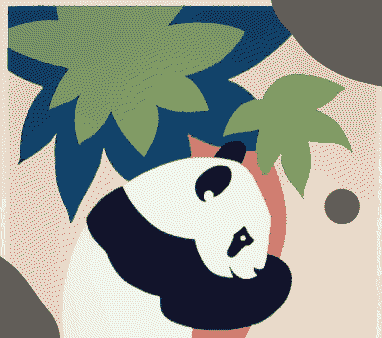
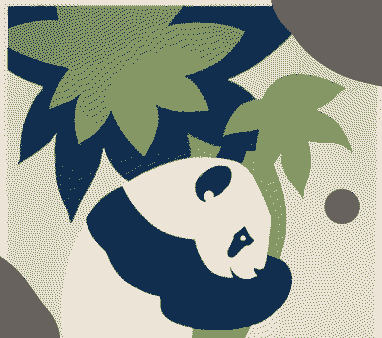
fixing color quantization

diff --git a/src/main.rs b/src/main.rs
@@ -6,24 +6,27 @@ use exoquant::{Color, convert_to_indexed, ditherer, optimizer};
 use image::{DynamicImage, GenericImageView, GrayImage, ImageBuffer, Luma, Pixel, Rgb, RgbImage};
 use imageproc::edges::canny;
 use imageproc::filter::gaussian_blur_f32;
+use palette::Srgb;
 use svg::Document;
 use svg::node::element::{Path as SvgPath, Rectangle};
 use svg::node::element::path::Data;
 
 
 fn main() {
+    let num_colors = 4;
+    let gaussian_blur_dev = 1.5;
+
     println!("Read the input bitmap image.");
     let color_image = image::open("input.png").unwrap();
 
     println!("Quantize the image using k-means clustering");
-    let num_colors = 16;
     let quantized_image = quantize_colors(&color_image, num_colors);
     image::save_buffer("quantized_image.png", &quantized_image.clone().into_raw(),
                        quantized_image.clone().width(), quantized_image.clone().height(),
                        image::ColorType::Rgb8).expect("TODO: panic message");
 
     println!("Preprocess the image");
-    let preprocessed_image = preprocess_image(&color_image);
+    let preprocessed_image = preprocess_image(&quantized_image, gaussian_blur_dev);
 
     println!("Apply the tracing algorithm");
     let vector_data = trace_bitmap(&preprocessed_image, &quantized_image);
@@ -64,13 +67,15 @@ fn quantize_colors(image: &DynamicImage, num_colors: usize) -> ImageBuffer<Rgb<u
     RgbImage::from_raw(width as u32, height as u32, output_data).unwrap()
 }
 
-fn preprocess_image(image: &DynamicImage) -> ImageBuffer<Luma<u8>, Vec<u8>> {
+fn preprocess_image(color_image: &RgbImage, gaussian_blur_dev: f32) -> ImageBuffer<Luma<u8>, Vec<u8>> {
     // Convert the image to grayscale
-    let grayscale_image = image.to_luma8();
+    let grayscale_image = ImageBuffer::from_fn(color_image.width(), color_image.height(), |x, y| {
+        let pixel = color_image.get_pixel(x, y);
+        Luma([pixel.to_luma()[0]])
+    });
 
     // Apply Gaussian blur with a specified standard deviation
-    let std_dev = 1.5; // Adjust this value based on your requirements
-    let blurred_image = gaussian_blur_f32(&grayscale_image, std_dev);
+    let blurred_image = gaussian_blur_f32(&grayscale_image, gaussian_blur_dev);
 
     blurred_image
 }
@@ -113,11 +118,11 @@ fn ramer_douglas_peucker(points: Vec<(f64, f64)>, epsilon: f64) -> Vec<(f64, f64
     result
 }
 
-fn trace_bitmap(image: &ImageBuffer<Luma<u8>, Vec<u8>>, color_image: &RgbImage) -> Vec<Path> {
+fn trace_bitmap(preprocessed_image: &ImageBuffer<Luma<u8>, Vec<u8>>, color_image: &RgbImage) -> Vec<Path> {
     println!("Apply the Canny edge detection algorithm");
     let low_threshold = 10.0;
     let high_threshold = 50.0;
-    let edge_image = canny(image, low_threshold, high_threshold);
+    let edge_image = canny(preprocessed_image, low_threshold, high_threshold);
 
     println!("Extract contours from the edge-detected image");
     let contours = extract_contours(&edge_image, color_image);
@@ -200,7 +205,6 @@ fn trace_contour(edge_image: &GrayImage, color_image: &RgbImage, visited: &mut V
     contour_points
 }
 
-
 fn export_vector_data(paths: &[Path], file_name: &str, width: u32, height: u32) -> Result<(), Box<dyn std::error::Error>> {
     let mut document = Document::new()
         .set("viewBox", (0, 0, width, height))
@@ -228,10 +232,15 @@ fn export_vector_data(paths: &[Path], file_name: &str, width: u32, height: u32) 
                 }
             }
         }
+        let red = path.color[0] as u8;
+        let green = path.color[1] as u8;
+        let blue = path.color[2] as u8;
+        let color_string = format!("rgb({}, {}, {})", red, green, blue);
+
 
         let svg_path = SvgPath::new()
             .set("fill", "none")
-            .set("stroke", "black")
+            .set("stroke", color_string)
             .set("stroke-width", 1)
             .set("d", data);
 
